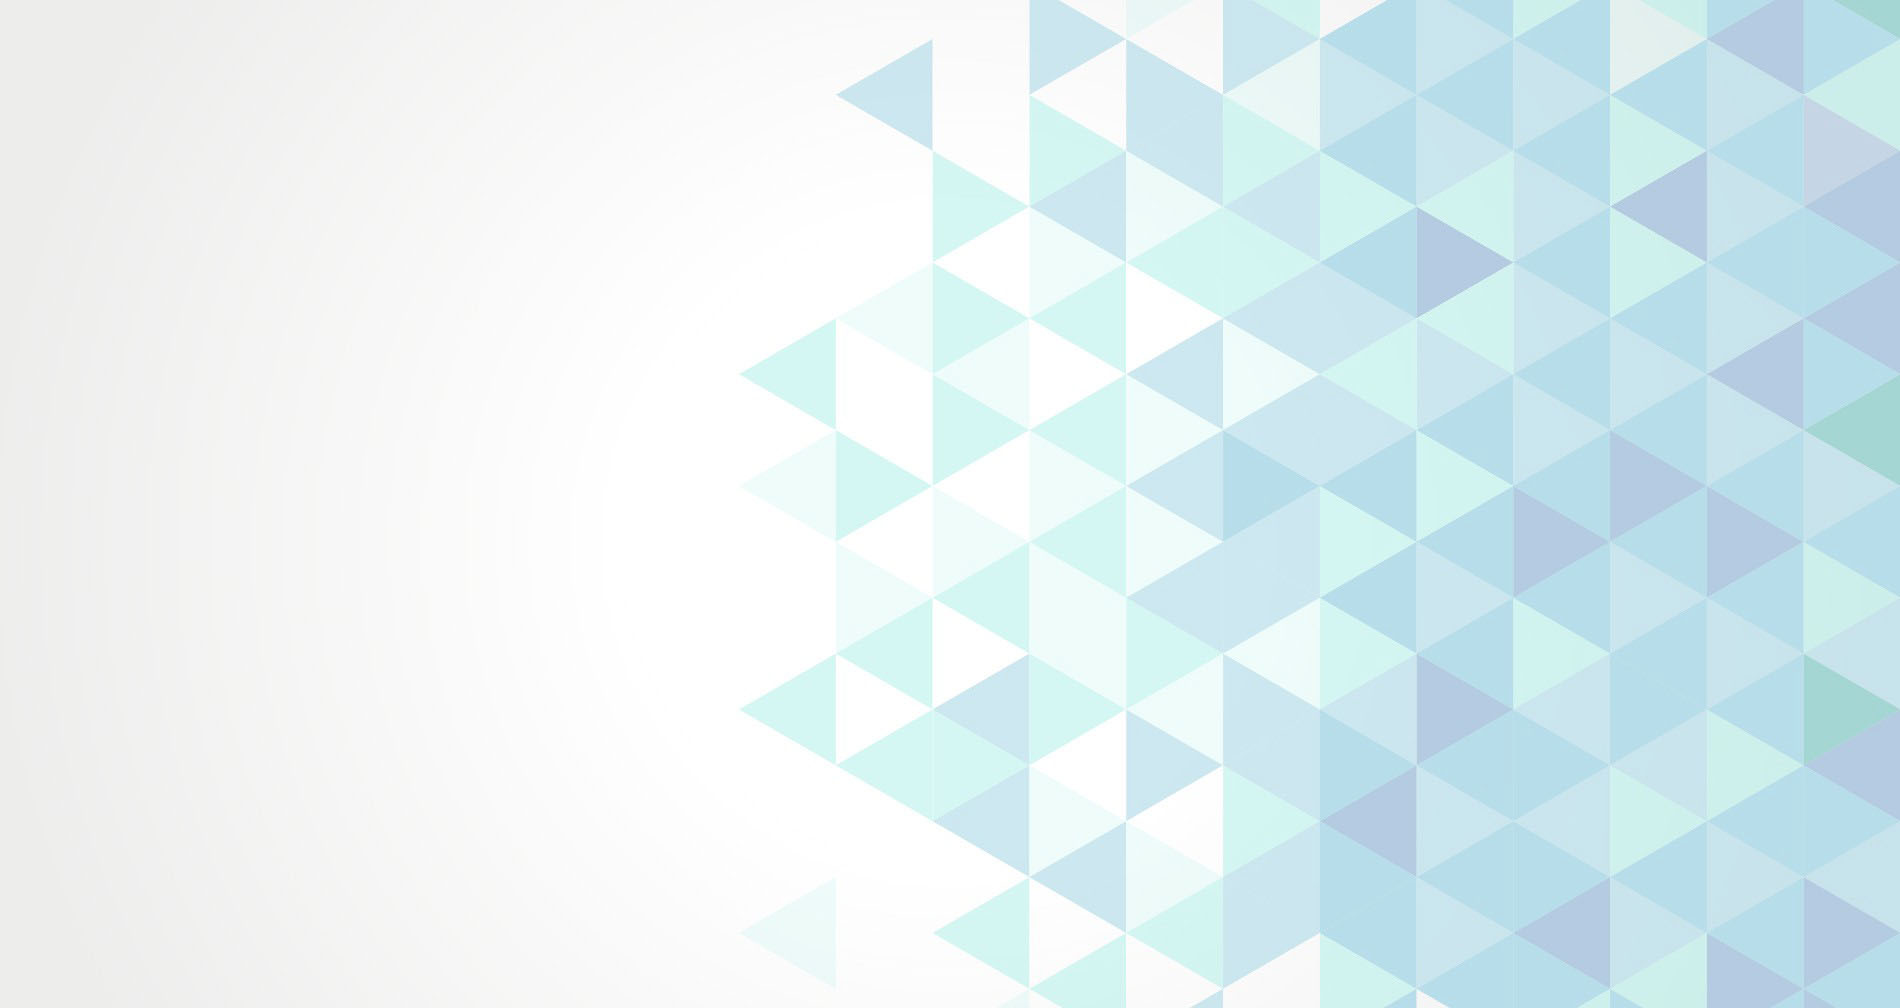
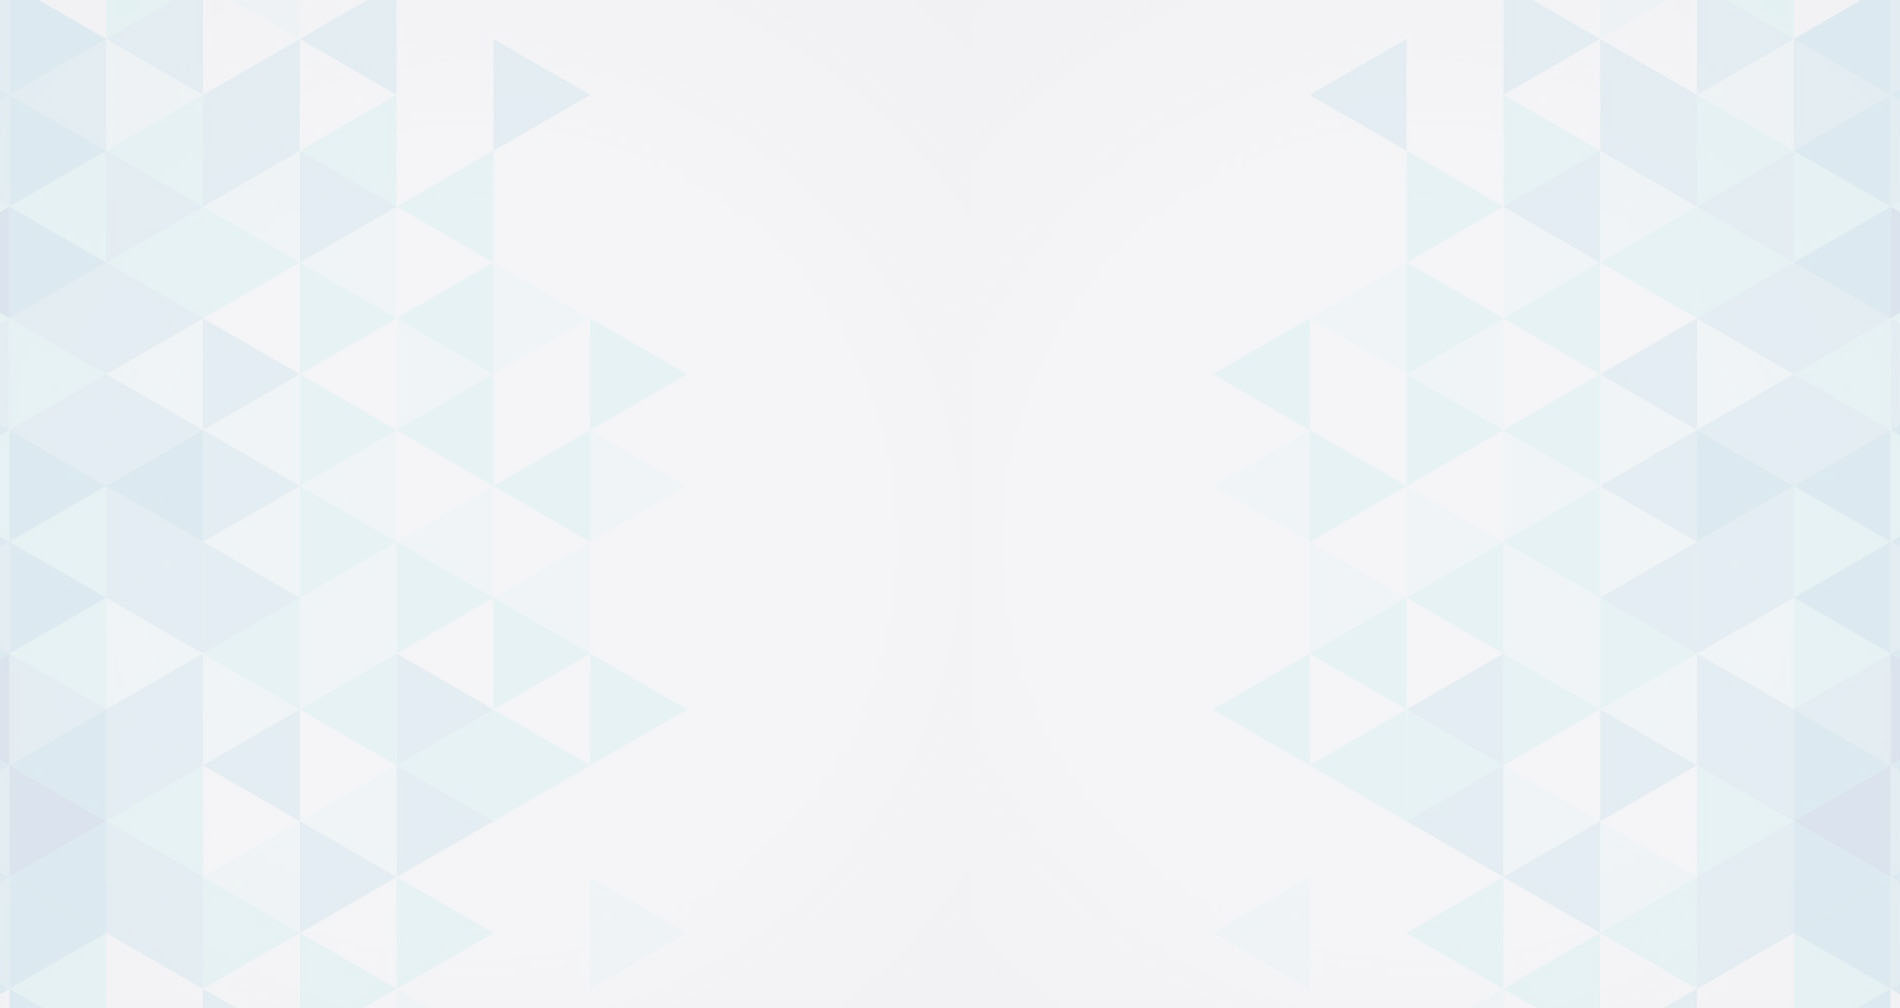
Background change

diff --git a/changepage.php b/changepage.php
@@ -38,37 +38,12 @@ if ($_SESSION["valid"] == false){
   <!-- InstanceBeginEditable name="head" -->
   <!-- InstanceEndEditable -->
   </head>
-<<<<<<< HEAD
   <body style=" background-image:url(bg.jpg);
     background-repeat: no-repeat;
     background-attachment: fixed;
     background-size:cover">
    
-    <div class="container" style=" background-color:rgba(0, 0, 0, 0.1);">
-=======
-
-  <body>
-  <?php 
-	
-	$servername = "localhost";
-	$username = "root";
-	$password = "";
-	$dbname = "employee";
-
-	$conn = new mysqli($servername, $username, $password, $dbname);
-
-	if ($conn->connect_error) {
-		die("Connection failed: " . $conn->connect_error);
-	}
-
-	$sql = "SELECT firstname, lastname, DOB, Job, Salary, gender, contactNum, email, dateHired, dateTerminated FROM emp WHERE id='".$_SESSION["id"]."'";
-	$result = $conn->query($sql);
-	$row = $result->fetch_assoc();
-  ?>
-
-    <div class="container">
-
->>>>>>> origin/master
+    <div class="container" >
       <!-- The justified navigation menu is meant for single line per list item.
            Multiple lines will require custom code not provided by Bootstrap. -->
       <div class="masthead">

diff --git a/Changelog.php b/Changelog.php
@@ -43,7 +43,7 @@ if ($_SESSION["valid"] == false){
     background-attachment: fixed;
     background-size:cover">
    
-    <div class="container" style=" background-color:rgba(0, 0, 0, 0.1);">
+    <div class="container" >
       <!-- The justified navigation menu is meant for single line per list item.
            Multiple lines will require custom code not provided by Bootstrap. -->
       <div class="masthead">
@@ -61,7 +61,6 @@ if ($_SESSION["valid"] == false){
                           <div id="mid">
       <!-- Jumbotron --><!-- InstanceBeginEditable name="EditRegion3" -->
       <div class="jumbotron">
-<<<<<<< HEAD
         <h1>Changelog</h1>
        <style>
 	   table, th, td {
@@ -88,14 +87,13 @@ if ($_SESSION["valid"] == false){
     <td>Changed Employee Salary: Jane, 3000 -> 2000</td> 
     </tr>
 </table></p>
-=======
+
 	  <?php
 		$servername = "localhost";
 		$username = "root";
 		$password = "";
 		$dbname = "changelog";
 	  ?>
->>>>>>> origin/master
       </div>
       <!-- InstanceEndEditable --><!-- Example row of columns -->
       </div>

diff --git a/AddNew.php b/AddNew.php
@@ -43,7 +43,7 @@ if ($_SESSION["valid"] == false){
     background-attachment: fixed;
     background-size:cover">
    
-    <div class="container" style=" background-color:rgba(0, 0, 0, 0.1);">
+    <div class="container" >
       <!-- The justified navigation menu is meant for single line per list item.
            Multiple lines will require custom code not provided by Bootstrap. -->
       <div class="masthead">

diff --git a/Help.php b/Help.php
@@ -43,7 +43,7 @@ if ($_SESSION["valid"] == false){
     background-attachment: fixed;
     background-size:cover">
    
-    <div class="container" style=" background-color:rgba(0, 0, 0, 0.1);">
+    <div class="container" >
       <!-- The justified navigation menu is meant for single line per list item.
            Multiple lines will require custom code not provided by Bootstrap. -->
       <div class="masthead">

diff --git a/employee.php b/employee.php
@@ -43,7 +43,7 @@ if ($_SESSION["valid"] == false){
     background-attachment: fixed;
     background-size:cover">
    
-    <div class="container" style=" background-color:rgba(0, 0, 0, 0.1);">
+    <div class="container" >
       <!-- The justified navigation menu is meant for single line per list item.
            Multiple lines will require custom code not provided by Bootstrap. -->
       <div class="masthead">
